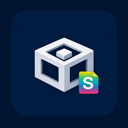
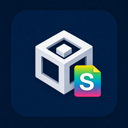
chore(release): v0.1.1

Changed region(s): [[0.25, 0.2188, 0.8125, 0.7812], [0.3125, 0.625, 0.375, 0.6562]]

diff --git a/CHANGELOG.md b/CHANGELOG.md
@@ -7,6 +7,13 @@ and uses semantic versioning for extension releases.
 
 ## Unreleased
 
+## 0.1.1 - 2026-07-18
+
+### Changed
+
+- Replaced the Marketplace extension icon with a balanced square composition
+  that preserves the intended cube proportions at 128×128.
+
 ## 0.1.0 - 2026-07-17
 
 ### Added
